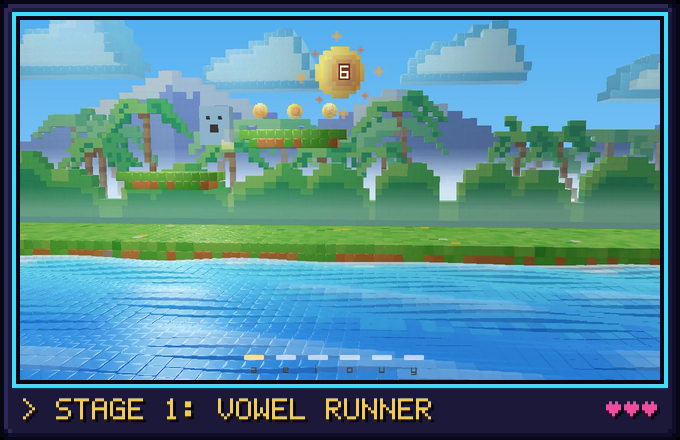
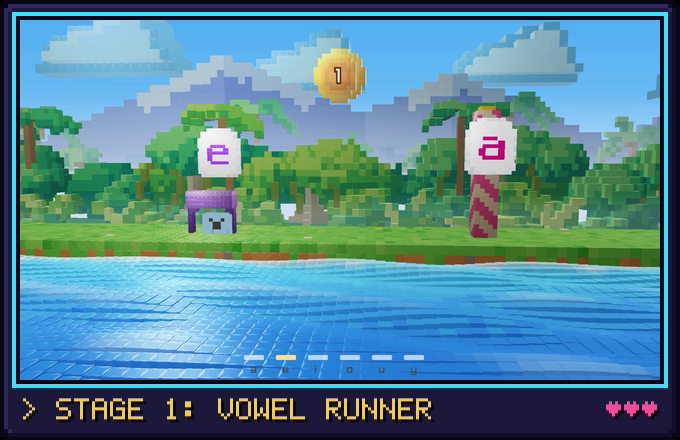
docs: a new gameplay GIF with the tablets, jungle and camera; recorded offline
The README's GIF and still, and the book's runner shot, show the new look:
white stone tablets, the rainforest jungle, the camera rising with high
jumps. The v0.4 pair is kept beside them (runner-v0.4.gif/.png).

With the jungle, a virtual display draws the game at a few frames a
second, too slow to film live. So the game gets a recording mode:
RONDELEK_GAME_RECORD=<dir> saves every frame (QOI: lossless, and quick
where PNG took seconds a frame at 1080p), stepping a fixed 1/30 s each
however slowly it draws; RONDELEK_GAME_RECORD_FROM=<s> skips the opening.
record-runner.sh uses it for a smooth 10 s take at 1920x1080 and 30 fps,
and KEEP=<path> copies the take out.

Claude-Session: https://claude.ai/code/session_01E1ufcc2uyJkW6cvALnCWPu

diff --git a/game/src/lib.rs b/game/src/lib.rs
@@ -97,6 +97,9 @@ fn keyboard_vowel(rl: &RaylibHandle) -> Option<usize> {
     (0..VOWELS.len()).find(|&i| rl.is_key_down(KEYS[i]))
 }
 
+/// The game time between recorded frames (`RONDELEK_GAME_RECORD`): 30 a second.
+const RECORD_DT: f32 = 1.0 / 30.0;
+
 /// raylib saves screenshots relative to the directory it was *initialized*
 /// in, so shoot to a bare name there and move the file to the requested
 /// destination (copy + remove — rename can't cross filesystems into /tmp).
@@ -218,9 +221,29 @@ pub fn run(id: &str, profile_dir: Option<PathBuf>) -> anyhow::Result<()> {
 
     // Phase 2: play (or, in demo mode, let the game play itself).
     let autoplay = std::env::var_os("RONDELEK_GAME_AUTOPLAY").is_some();
+    // Recording (`RONDELEK_GAME_RECORD=<dir>`): every frame is saved as
+    // <dir>/00000.qoi, 00001.qoi, … (QOI: lossless and quick to write, where
+    // PNG took seconds a frame), the game stepping a fixed RECORD_DT each
+    // however slowly it draws, so a machine that can't draw it in real time
+    // (a virtual display) still makes smooth, real-speed video of it.
+    // `RONDELEK_GAME_RECORD_FROM=<s>` plays the first s seconds unsaved, so
+    // a short take starts where the action does.
+    let record = std::env::var_os("RONDELEK_GAME_RECORD").map(PathBuf::from);
+    if let Some(dir) = &record
+        && let Err(e) = std::fs::create_dir_all(dir)
+    {
+        anyhow::bail!("can't record into {}: {e}", dir.display());
+    }
+    let record_from = std::env::var("RONDELEK_GAME_RECORD_FROM")
+        .ok()
+        .and_then(|s| s.parse::<f32>().ok())
+        .map_or(0, |s| (s / RECORD_DT).round().max(0.0) as u64);
     let mut frame: u64 = 0;
     while !rl.window_should_close() {
-        let dt = rl.get_frame_time().min(0.1);
+        let dt = match record {
+            Some(_) => RECORD_DT,
+            None => rl.get_frame_time().min(0.1),
+        };
         let kb_held = keyboard_vowel(&rl);
         let input = match autoplay.then(|| game.autoplay()).flatten() {
             Some(demo) => demo,
@@ -232,6 +255,15 @@ pub fn run(id: &str, profile_dir: Option<PathBuf>) -> anyhow::Result<()> {
         {
             let mut d = rl.begin_drawing(&thread);
             game.draw(&mut d, w, h);
+            if let Some(dir) = record.as_ref().filter(|_| frame >= record_from) {
+                // Read the frame back before it is shown: flush what raylib
+                // still has batched, then take the back buffer.
+                // SAFETY: a plain rlgl flush, between our own draw calls.
+                unsafe { raylib::ffi::rlDrawRenderBatchActive() };
+                let path = dir.join(format!("{:05}.qoi", frame - record_from));
+                d.load_image_from_screen(&thread)
+                    .export_image(&path.to_string_lossy());
+            }
         }
 
         frame += 1;

diff --git a/docs/src/games.md b/docs/src/games.md
@@ -567,9 +567,18 @@ one value, never the whole game.
   so it keeps up as the game speeds up. A test lets it play four minutes
   without a single bump, which also proves every obstacle can be cleared at
   every speed the game reaches.
+- **Recording**: `RONDELEK_GAME_RECORD=<dir>` saves every frame into the
+  folder (`00000.qoi`, …: QOI, lossless and quick to write, where PNG took
+  seconds a frame at 1080p), the game stepping a fixed 1/30 s each however
+  slowly it draws. So a virtual display, which draws the game at a few frames
+  a second, still makes smooth, real-speed 30 fps video.
+  `RONDELEK_GAME_RECORD_FROM=<s>` plays the first *s* seconds unsaved.
 - `docs/images/arcade/record-runner.sh [start] [length] [still]` records the
   README's gameplay GIF and its still on a virtual display (Xvfb, demo mode,
-  ffmpeg). Every game deals a fresh course, so the full take is kept: look
-  through it, then re-cut that same take with `TAKE=<runner-take.mp4>`
-  instead of recording a different game. Earlier GIFs stay beside the current
-  one for history (`runner-v0.3.gif`, `runner-v0.3.png`).
+  the recording mode above, ffmpeg): a 10 s take (`SECS`) at 1920×1080
+  (`SIZE`), from 4 s into the game (`FROM`), as the first obstacle comes in.
+  Every game deals a fresh course, so the full take is kept (`KEEP=<path>`
+  copies it out): look through it, then re-cut that same take with
+  `TAKE=<runner-take.mp4>` instead of recording a different game. Earlier GIFs
+  stay beside the current one for history (`runner-v0.3.*`, `runner-v0.4.*`):
+  rename the current pair before recording a new one.

diff --git a/AGENTS.md b/AGENTS.md
@@ -21,7 +21,7 @@ cargo run --bin genavatars   # regenerate the classic character avatars (assets/
 cargo run --bin genpixelpals # regenerate the pixel-art "pixel pals" (assets/avatars/pixel-*.png)
 cargo run --bin genicon      # regenerate the app icon (assets/icon/rondelek.png)
 cargo run --bin genarcade    # regenerate the README's banner, marquee + framed shots (docs/images/arcade/)
-docs/images/arcade/record-runner.sh  # re-record the README's gameplay GIF (Linux: Xvfb, ffmpeg; demo mode; TAKE= re-cuts a take)
+docs/images/arcade/record-runner.sh  # re-record the README's gameplay GIF (Linux: Xvfb, ffmpeg; demo mode; 10 s offline take at 1080p/30 fps; TAKE= re-cuts a take, KEEP= copies it out)
 packaging/appimage/build.sh target/release v0.0.0-local dist  # Linux AppImage from a release build
 ```
 
@@ -312,6 +312,8 @@ packaging/appimage/       Linux AppImage: AppRun (app / --game), desktop entry,
   `RONDELEK_VIZ=<n>` (visualizer index), `RONDELEK_SHOT=<png>` (capture a few frames
   in and exit). Game: `RONDELEK_GAME_SCREEN=profiles|select`, `RONDELEK_GAME_FRAMES=<n>`,
   `RONDELEK_GAME_AUTOPLAY=1` (demo mode: the game plays itself),
+  `RONDELEK_GAME_RECORD=<dir>` (save every frame, stepping 1/30 s each, for video;
+  `RONDELEK_GAME_RECORD_FROM=<s>` skips the first s seconds),
   `RONDELEK_GAME_SHOT=<png>`, `RONDELEK_LAMPULA=<json>` / `RONDELEK_WATER=<json>` /
   `RONDELEK_PROPS=<json>` (shader tuning overrides for the clouds and sun / the water /
   the meadow and obstacles, read at launch; `RONDELEK_LAMPULA` also takes flat-draw's

diff --git a/README.md b/README.md
@@ -21,7 +21,7 @@ Every child in the family gets their own card, picture and recordings.
     <td align="center" valign="top" width="60%">
       <picture>
         <source media="(prefers-reduced-motion: reduce)" srcset="docs/images/arcade/runner.png">
-        <img src="docs/images/arcade/runner.gif" alt="Vowel Runner: a little blue hero runs along a meadow of bricks by a sea of glass bricks, below palms and snowy mountains in valley mist; it ducks under a bridge, fires a star that knocks down a brick wall marked with a vowel, jumps a toy brick, and hops up a staircase of ledges to collect little golden suns, while the big golden sun at the top spins round for every point" width="460">
+        <img src="docs/images/arcade/runner.gif" alt="Vowel Runner: a little blue hero runs along a meadow of bricks by a sea of glass bricks, in front of a thick jungle under tall snowy mountains; each obstacle carries a white stone tablet with its vowel carved in. The hero ducks under a bridge marked e, double-jumps a candy-striped pillar and jumps a toy brick marked a, the camera rising gently with the high jumps, while the big golden sun at the top spins round for every point" width="460">
       </picture>
     </td>
   </tr>

diff --git a/docs/src/building.md b/docs/src/building.md
@@ -134,6 +134,7 @@ screenshot on the way. They're great for testing, demos and pictures:
 | `RONDELEK_GAME_SCREEN=profiles` \| `select` | *(game)* open the who's-playing picker or the setup screen |
 | `RONDELEK_GAME_FRAMES=<n>` / `RONDELEK_GAME_SHOT=<png>` | *(game)* quit after *n* frames / save a screenshot |
 | `RONDELEK_GAME_AUTOPLAY=1` | *(game)* demo mode: the game plays itself (for recording the README's GIF) |
+| `RONDELEK_GAME_RECORD=<dir>` / `RONDELEK_GAME_RECORD_FROM=<s>` | *(game)* save every frame into the folder, the game stepping 1/30 s each however slowly it draws (smooth video from a slow display) / skip the first *s* seconds |
 | `RONDELEK_WATER_STYLE=toon` \| `bricks` | *(game)* Vowel Runner's water: the first, smooth toon water, or the brick water (the default) |
 | `RONDELEK_LAMPULA` / `RONDELEK_WATER` / `RONDELEK_PROPS=<file.json>` | *(game)* tuning files for the glass of the clouds and sun / the water / the meadow and obstacles; see [Voice games](games.md) |
 

diff --git a/docs/src/introduction.md b/docs/src/introduction.md
@@ -9,7 +9,7 @@ of practice with sounds and vowels along the way.
 <p align="center">
   <img src="images/arcade-sampler.png" alt="The sound board: a navy arcade cabinet with a neon dot-matrix screen over a 4×3 grid of rainbow pixel keys" width="300">
   &nbsp;
-  <img src="images/arcade-runner.png" alt="Vowel Runner: a little blue hero stands on a grassy ledge among little golden suns, below palms and snowy mountains in valley mist, by a sea of glass bricks, while the big golden sun shows the score" width="440">
+  <img src="images/arcade-runner.png" alt="Vowel Runner: a little blue hero ducks under a purple bridge by a sea of glass bricks, in front of a thick jungle under tall snowy mountains; white stone tablets with carved vowels float over the obstacles, e over the bridge and a on a candy-striped pillar ahead, while the big golden sun shows the score" width="440">
 </p>
 
 One install serves the whole family. Every child gets their own card, picture

diff --git a/docs/src/playing-games.md b/docs/src/playing-games.md
@@ -5,7 +5,7 @@ controller. No buttons, no joystick: just say a vowel, and something happens
 on screen.
 
 <p align="center">
-  <img src="images/arcade-runner.png" alt="Vowel Runner: a little blue hero stands on a grassy ledge among little golden suns, below palms and snowy mountains in valley mist, by a sea of glass bricks, while the big golden sun shows the score" width="560">
+  <img src="images/arcade-runner.png" alt="Vowel Runner: a little blue hero ducks under a purple bridge by a sea of glass bricks, in front of a thick jungle under tall snowy mountains; white stone tablets with carved vowels float over the obstacles, e over the bridge and a on a candy-striped pillar ahead, while the big golden sun shows the score" width="560">
 </p>
 
 The games need the [voice calibration](voice-calibration.md), so they know what
